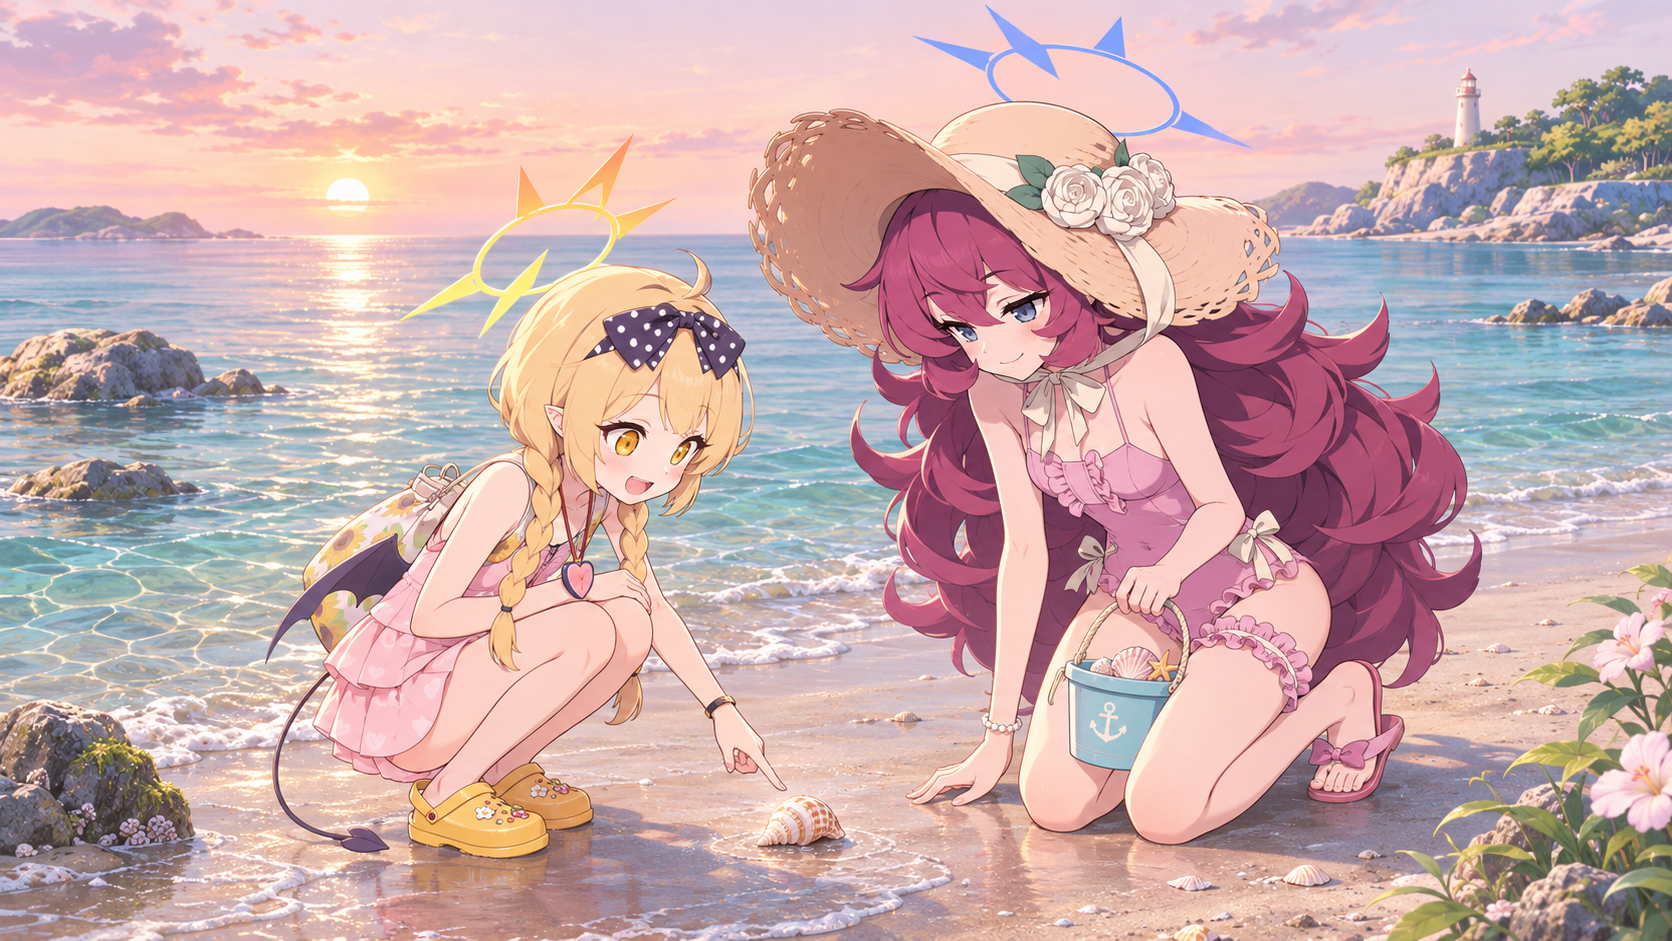
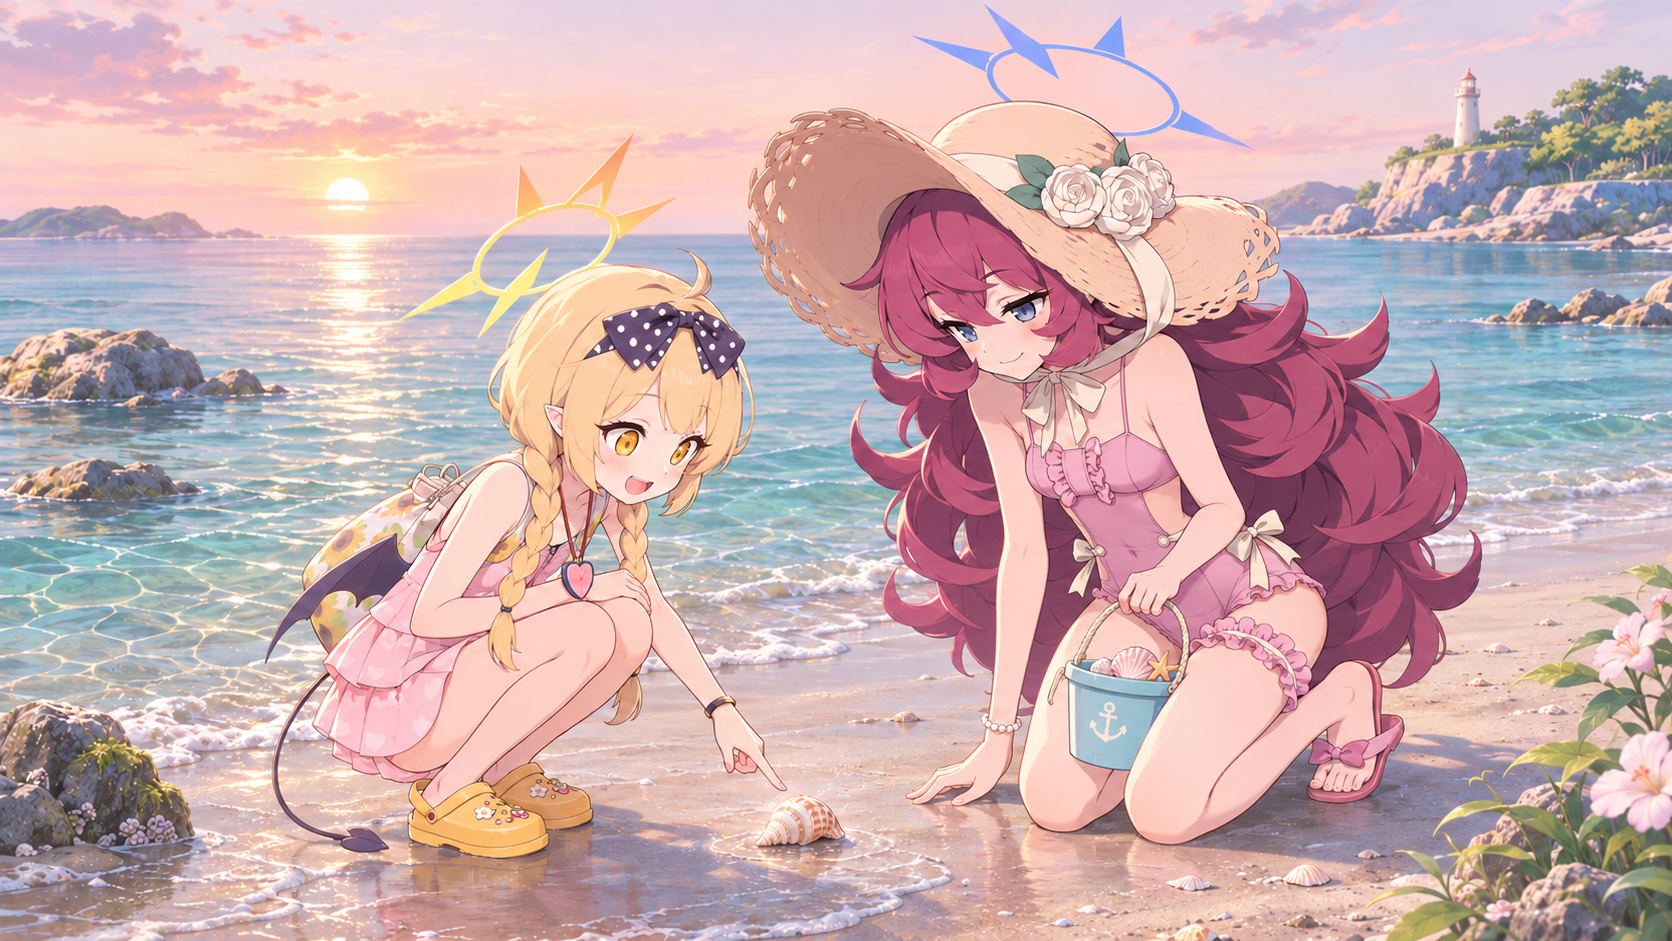
Add files via upload

diff --git a/index.html b/index.html
@@ -988,10 +988,10 @@ body.integrated-pages .armor-elastic{--tile-color:#b98cff;--tile-glow:rgba(185,1
 <div class="app grid">
   <div>
     <h1>蔚藍檔案總力戰 TL 編輯器</h1>
-    <div class="small">V4.5.76 · 明亮海灘背景版</div>
+    <div class="small">V4.5.77 · 更新海灘背景版</div>
   </div>
-  <div id="status" class="status">V4.5.76 正在載入 281 名學生與本地圖片…</div>
-  <div class="small">V4.5.76 · 日服 · 繁體中文 · 明亮海灘背景</div>
+  <div id="status" class="status">V4.5.77 正在載入 281 名學生與本地圖片…</div>
+  <div class="small">V4.5.77 · 日服 · 繁體中文 · 更新海灘背景</div>
 
   <section id="installHelp" class="panel grid">
     <div class="space">
@@ -1994,7 +1994,7 @@ async function deleteBossTlSlot(){
   }catch(error){bossTlMessage('線上刪除失敗：'+(error?.message||error),'err')}
 }
 
-function timelineSnapshot(){return {version:'4.5.76',bossId:$('boss').value,bossArmor:$('bossArmor').value,difficulty:$('difficulty').value,terrain:$('terrain').value,teamName:'',headerNote:'',strikers:strikers.map(x=>x?.Id||null),specials:specials.map(x=>x?.Id||null),tl}}
+function timelineSnapshot(){return {version:'4.5.77',bossId:$('boss').value,bossArmor:$('bossArmor').value,difficulty:$('difficulty').value,terrain:$('terrain').value,teamName:'',headerNote:'',strikers:strikers.map(x=>x?.Id||null),specials:specials.map(x=>x?.Id||null),tl}}
 function normalizeCloudCode(value){return String(value||'').toUpperCase().replace(/[^A-Z0-9]/g,'').slice(0,8)}
 function cloudMessage(message,type=''){const el=$('cloudMessage');el.textContent=message;el.style.color=type==='err'?'#ff8796':type==='ok'?'#83efb0':''}
 async function saveTimelineCloud(){
@@ -2081,7 +2081,7 @@ $('refreshText').onclick=renderText;$('exportExcel').onclick=exportTimelineExcel
 
 (async()=>{
   try{
-    setStatus('V4.5.76 正在載入 281 名學生與本地圖片…');
+    setStatus('V4.5.77 正在載入 281 名學生與本地圖片…');
 
     students=applyV457JpCorrections(EMBEDDED_STUDENTS.map(x=>({...x})));
     raids=EMBEDDED_RAIDS.map(x=>({...x}));
@@ -2092,11 +2092,11 @@ $('refreshText').onclick=renderText;$('exportExcel').onclick=exportTimelineExcel
     renderStudents();
     renderTl();
 
-    setStatus(`V4.5.76 載入完成：${students.length} 名學生｜${raids.length} Boss`,'ok');
+    setStatus(`V4.5.77 載入完成：${students.length} 名學生｜${raids.length} Boss`,'ok');
     const sharedCode=normalizeCloudCode(new URLSearchParams(location.search).get('tl'));if(sharedCode){$('cloudCode').value=sharedCode;await loadTimelineCloud(sharedCode)}
   }catch(e){
     console.error('V4.5.4 bootstrap failed',e);
-    setStatus(`V4.5.76 啟動失敗：${e?.message||e}`,'err');
+    setStatus(`V4.5.77 啟動失敗：${e?.message||e}`,'err');
   }
 })();
 

diff --git a/sw.js b/sw.js
@@ -1,4 +1,4 @@
-const CACHE='ba-tl-v4-5-76-bright-beach-background';
+const CACHE='ba-tl-v4-5-77-updated-beach-background';
 const SHELL=["./site-background.png", "./", "./index.html", "./students_local.json", "./raids_local.json", "./manifest.webmanifest", "./icon-192.png", "./icon-512.png", "./apple-touch-icon.png", "./exceljs.min.js", "./excel-images-1.js", "./excel-images-2.js", "./excel-images-3.js", "./excel-images-4.js", "./boss-icons/Binah.webp", "./boss-icons/Chesed.webp", "./boss-icons/ShiroKuro.webp", "./boss-icons/Hieronymus.webp", "./boss-icons/Kaiten.webp", "./boss-icons/Perorodzilla.webp", "./boss-icons/Hod.webp", "./boss-icons/Goz.webp", "./boss-icons/Gregorius.webp", "./boss-icons/HoverCraft.webp", "./boss-icons/Kurokage.webp", "./boss-icons/Geburah.webp", "./boss-icons/Yesod.webp", "./Drumbarka.webp", "./student-icons/390021.webp", "./student-icons/390022.webp", "./student-icons/390023.webp", "./student-icons/390024.webp", "./student-icons/390025.webp", "./student-icons/390026.webp", "./student-icons/390027.webp", "./student-icons/390028.webp", "./student-icons/390029.webp"];
 
 self.addEventListener('install',event=>{

diff --git a/README-V4.5.77.md b/README-V4.5.77.md
@@ -1,0 +1,5 @@
+# V4.5.77 更新海灘背景版
+
+- 使用本次提供的圖片重新替換網站背景。
+- 維持單張滿版、固定背景及不重複排列。
+- 更新離線快取名稱，確保部署後載入新圖片。
